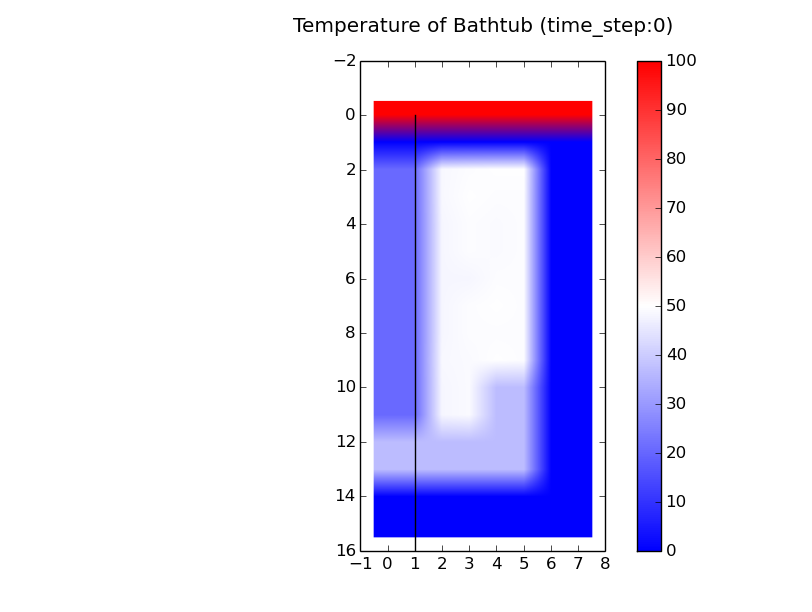
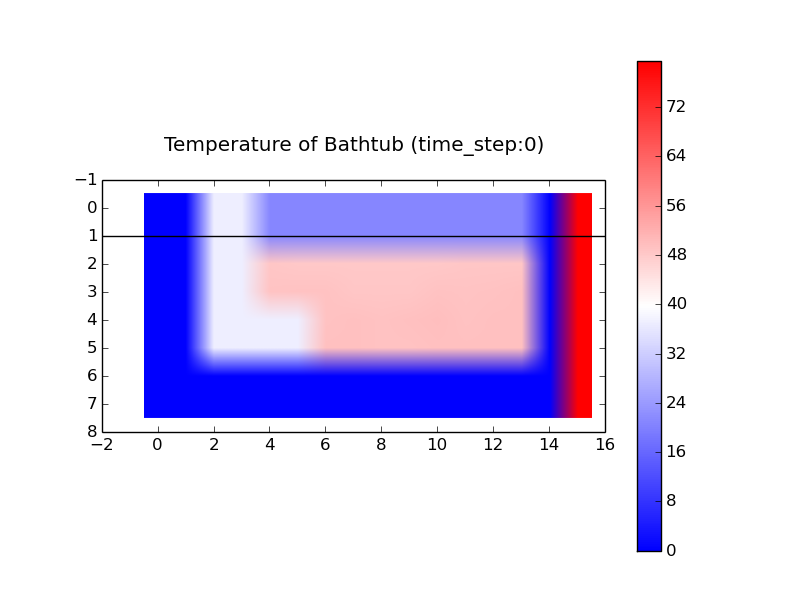
No faucet

diff --git a/main.py b/main.py
@@ -346,8 +346,8 @@ faucet_y = 2
 faucet_width = 1
 faucet_length = 1
 faucet_temp = 79.5 
-faucet_node_depth = 4 #int(z/4.0) + 2#4 #z_size - 3
-mixing_frequency = 10
+faucet_node_depth = 0 #int(z/4.0) + 2#4 #z_size - 3
+mixing_frequency = 2000
 
 
 
@@ -481,7 +481,7 @@ plt.show()"""
 plt.clf()
 times = []
 names = []
-ylow = 40
+ylow = 20
 yhigh = 60 
 #data[0][1] = means
 #data[0][2] = stds
